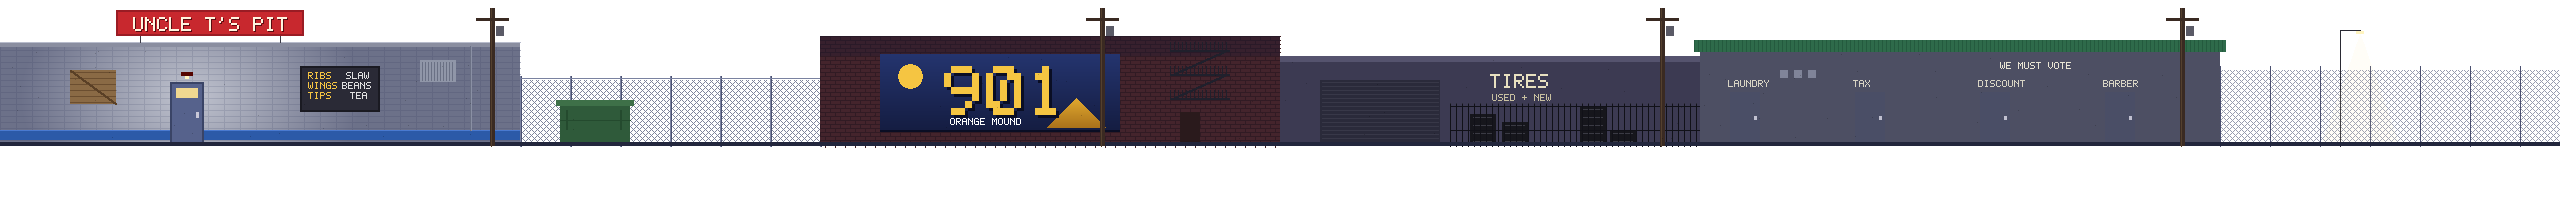
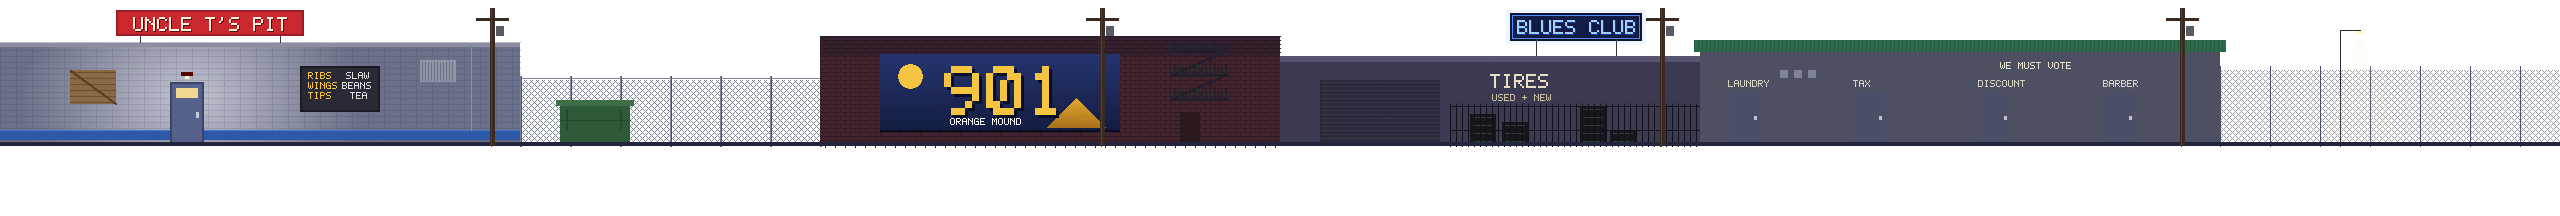
Mission 1: "Royal by nature." victory line, BLUES CLUB neon sign
Claude-Session: https://claude.ai/code/session_01Ug46qmYPZG3kNcTFz6fgy2

Changed region(s): [[0.5625, 0.0556, 0.6562, 0.1944]]

diff --git a/tools/art/world.ts b/tools/art/world.ts
@@ -535,6 +535,16 @@ export function wallLayer(): Pix {
   g.rect(tX + 40, 80, 120, groundY - 80, hex('#2a2a3a')); // roll-up door
   for (let y = 82; y < groundY; y += 4) g.hline(tX + 42, tX + 158, y, hex('#383848'));
   text(g, 'TIRES', tX + 210, 74, hex('#e8e0c0'), 2);
+  // BLUES CLUB: blue neon sign up on the roof
+  const bcX = tX + 236, bcY = 18;
+  g.rect(bcX - 6, bcY - 5, 132, 28, hex('#0c1430'));
+  g.rect(bcX - 4, bcY - 3, 128, 24, hex('#121c44'));
+  for (let x = bcX - 4; x < bcX + 124; x++) { g.set(x, bcY - 3, hex('#4a8aff')); g.set(x, bcY + 20, hex('#4a8aff')); }
+  for (let y = bcY - 3; y <= bcY + 20; y++) { g.set(bcX - 4, y, hex('#4a8aff')); g.set(bcX + 123, y, hex('#4a8aff')); }
+  text(g, 'BLUES CLUB', bcX + 1 + 1, bcY + 2 + 1, hex('#1a3a9a'), 2);
+  text(g, 'BLUES CLUB', bcX + 1, bcY + 2, hex('#9fd0ff'), 2);
+  for (let y = bcY + 21; y < 56; y++) { g.set(bcX + 20, y, hex('#3a3a46')); g.set(bcX + 100, y, hex('#3a3a46')); }
+  for (let y = bcY - 8; y < bcY + 26; y++) for (let x = bcX - 10; x < bcX + 130; x++) if (!g.alpha(x, y)) g.set(x, y, [74, 138, 255, 22]);
   text(g, 'USED + NEW', tX + 212, 94, hex('#c8c0a0'));
   for (const [x, n] of [[tX + 190, 4], [tX + 222, 3], [tX + 300, 5], [tX + 330, 2]]) {
     for (let k = 0; k < n; k++) { g.rect(x, groundY - 8 - k * 8, 26, 8, hex('#16161c')); g.hline(x + 3, x + 22, groundY - 5 - k * 8, hex('#3a3a44')); }

diff --git a/src/scenes/Results.ts b/src/scenes/Results.ts
@@ -24,7 +24,7 @@ export class Results extends Phaser.Scene {
     this.add.tileSprite(0, 0, W, 216, 'egypt').setOrigin(0).setAlpha(0.35);
     this.add.rectangle(0, 0, W, 216, 0x070a1c, 0.55).setOrigin(0);
     px(this, W / 2, 12, 'MISSION 1 COMPLETE', COLORS.goldHi, 2).setOrigin(0.5, 0);
-    px(this, W / 2, 34, "THAT'S ON THE 901.", COLORS.cream).setOrigin(0.5, 0);
+    px(this, W / 2, 34, 'ROYAL BY NATURE.', COLORS.cream).setOrigin(0.5, 0);
 
     const mane = this.add.sprite(70, 150, 'mane').setScale(2).setOrigin(0.5, 61 / 64);
     mane.play('mane:victory');

diff --git a/src/missions/lines.ts b/src/missions/lines.ts
@@ -9,7 +9,7 @@ export const MANE = {
   goofy: "LOOKIN' AHH.",
   super: "WATCH THIS JUNT.",
   getUp: "GET UP. GET YOURS. GET HYDRATED.",
-  complete: "THAT'S ON THE 901.",
+  complete: "ROYAL BY NATURE.",
 };
 
 export const SHIESTY_TALK = [
